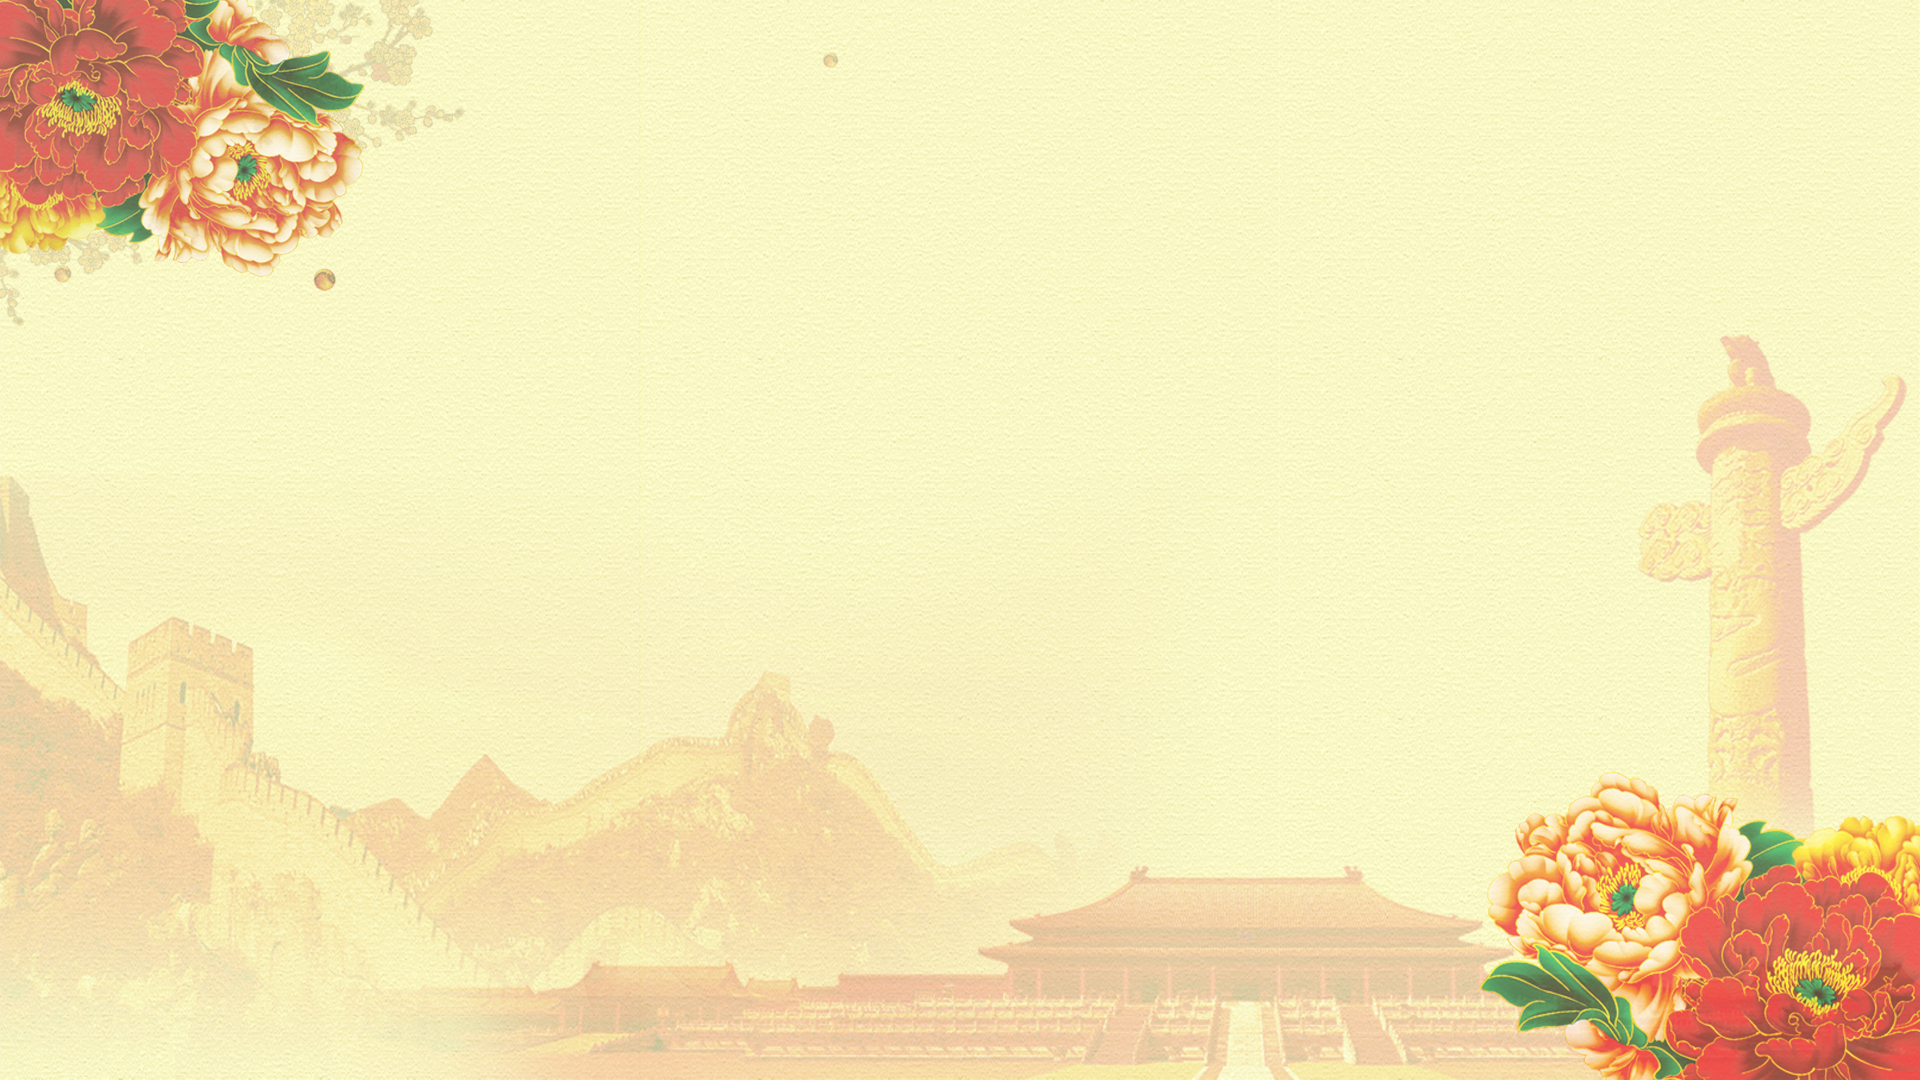
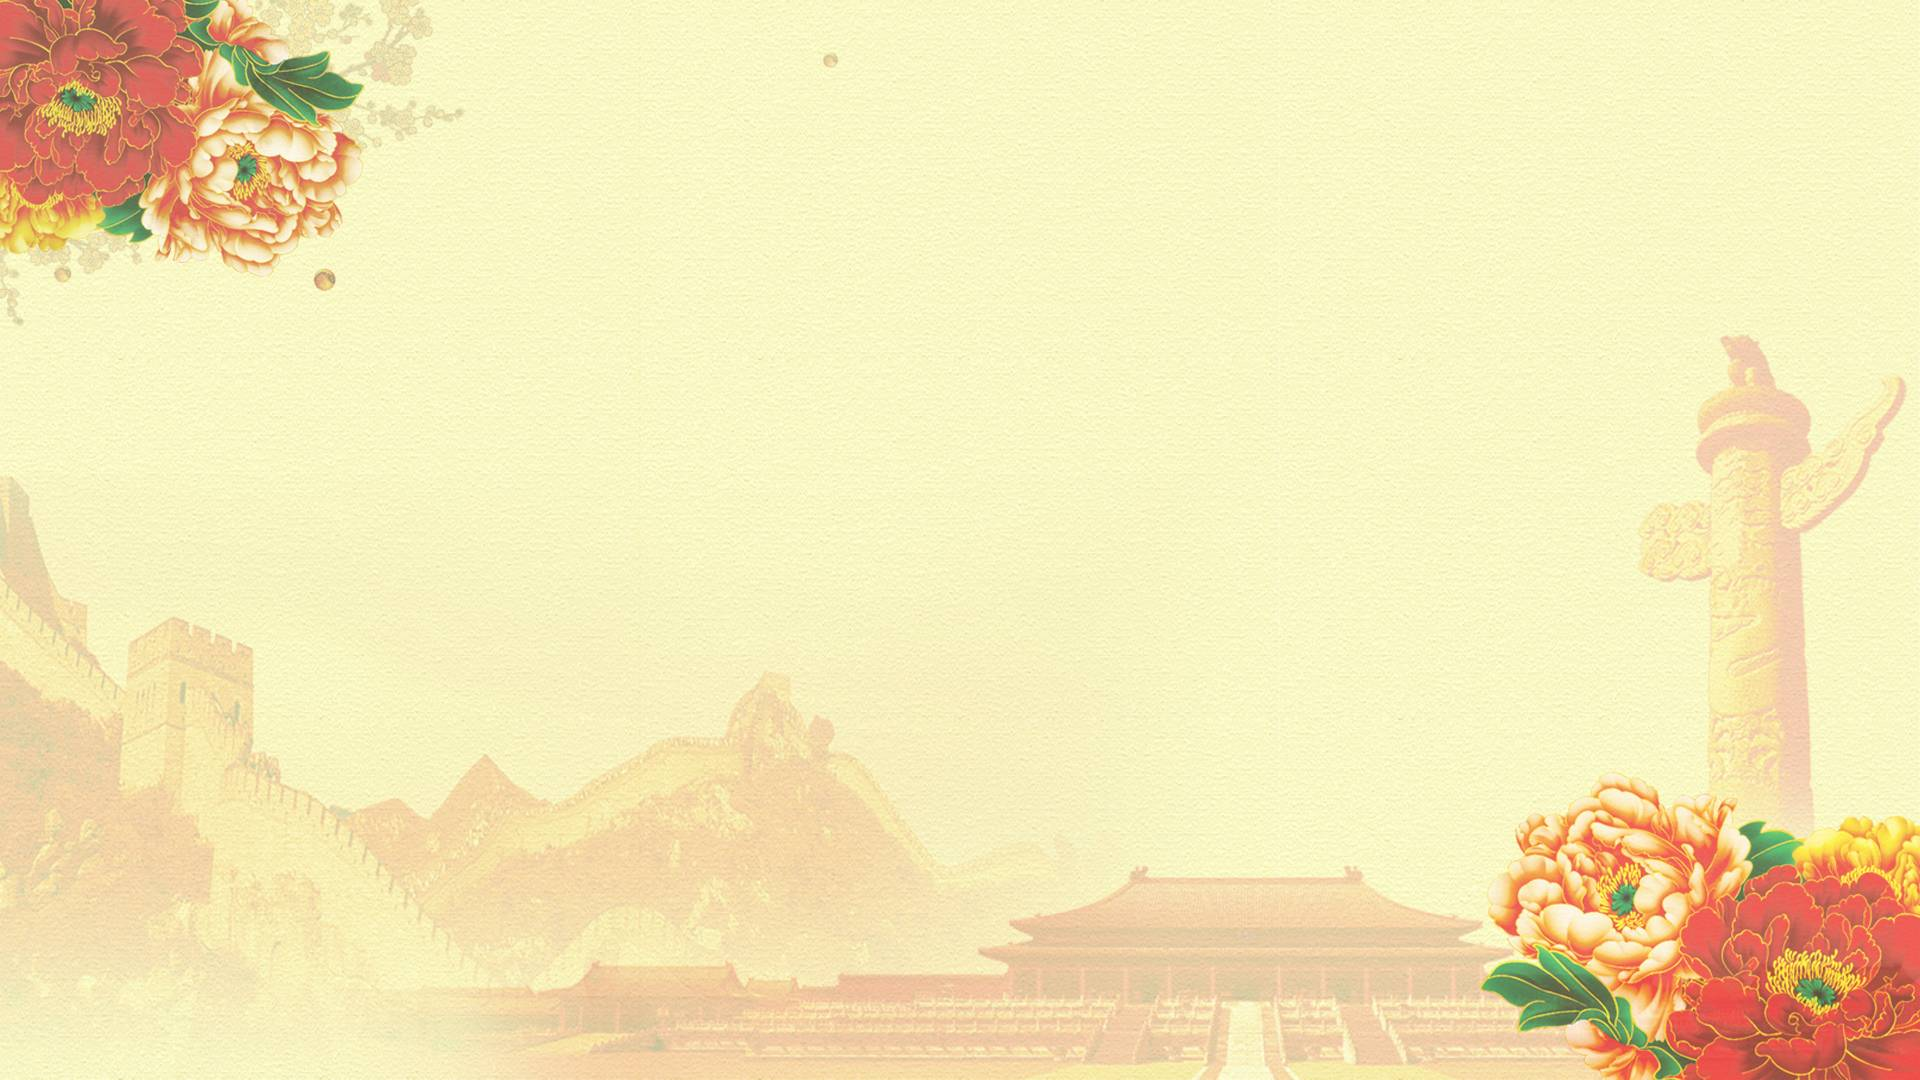
压缩图片并将图片背景区域修改至body

diff --git a/stucampus/static/styles/bases.css b/stucampus/static/styles/bases.css
@@ -5,6 +5,8 @@
 }
 body{
     background-color: #eee;
+    background:url(/static/images/index/national_bgc.png) fixed no-repeat;
+    background-size:cover;
 }
 @media screen and (max-width: 767px){
 	@media screen and (max-width: 640px){
@@ -281,9 +283,7 @@ body{
 	.inner_content{
 	    margin-top: 1.733333rem;
 	    overflow: hidden;
-            background:url('/static/images/index/national_bgc.png') fixed no-repeat;
-            background-size:cover;
-	}
+        }
 	.clear-margin{
 		margin: 0 !important;
 	}

diff --git a/stucampus/static/styles/base.css b/stucampus/static/styles/base.css
@@ -5,6 +5,8 @@
 
 body{
 	background-color: #eaf4fc;
+        background: url(/static/images/index/national_bgc.png) fixed no-repeat;
+        background-size: cover;
 }
 
 .header{
